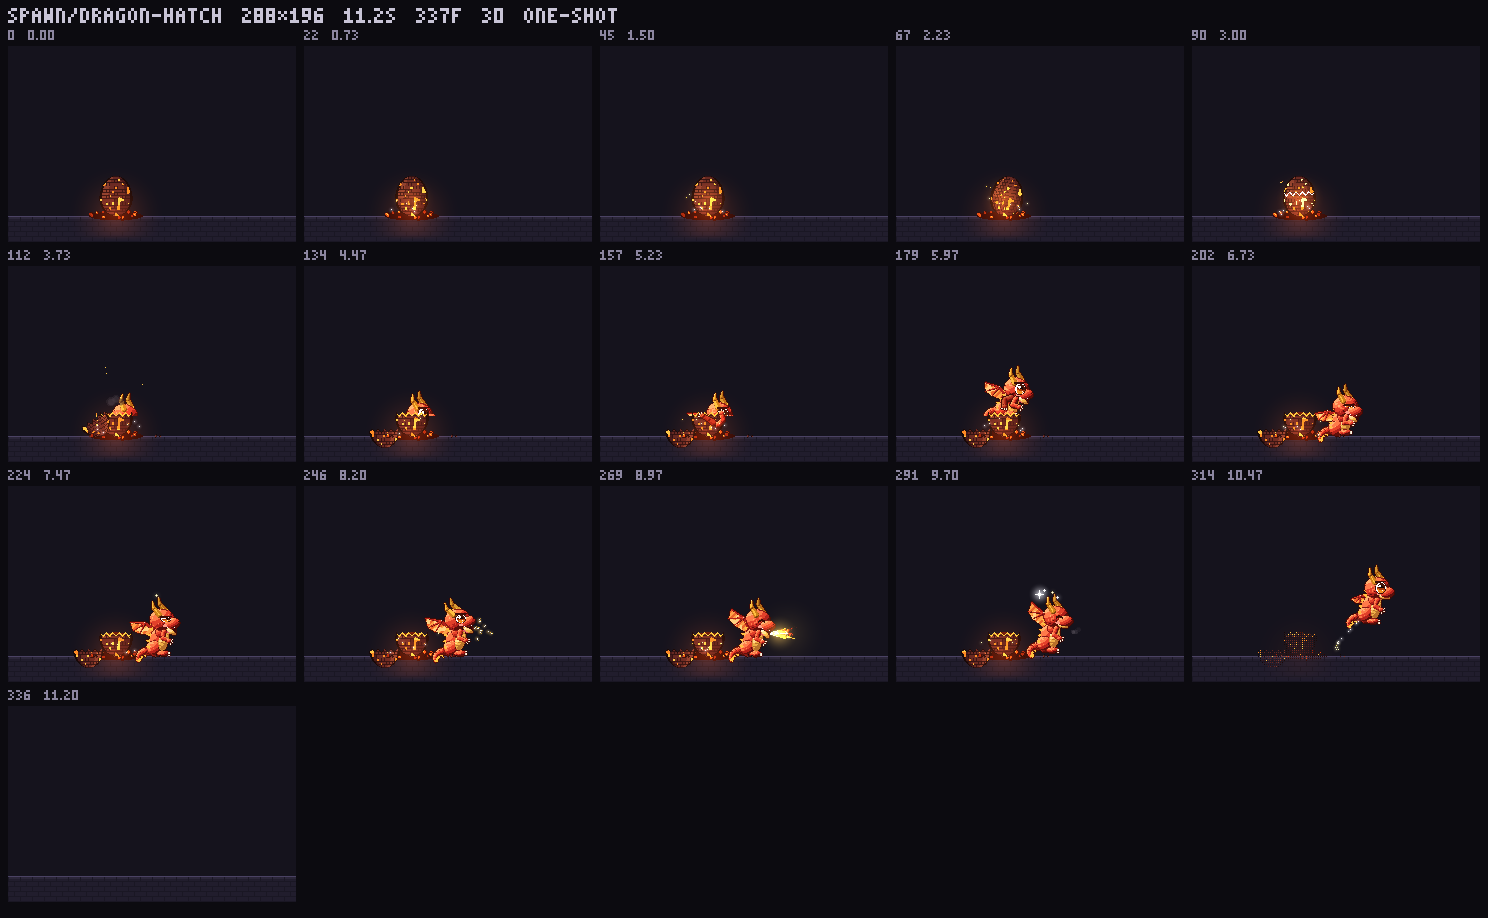
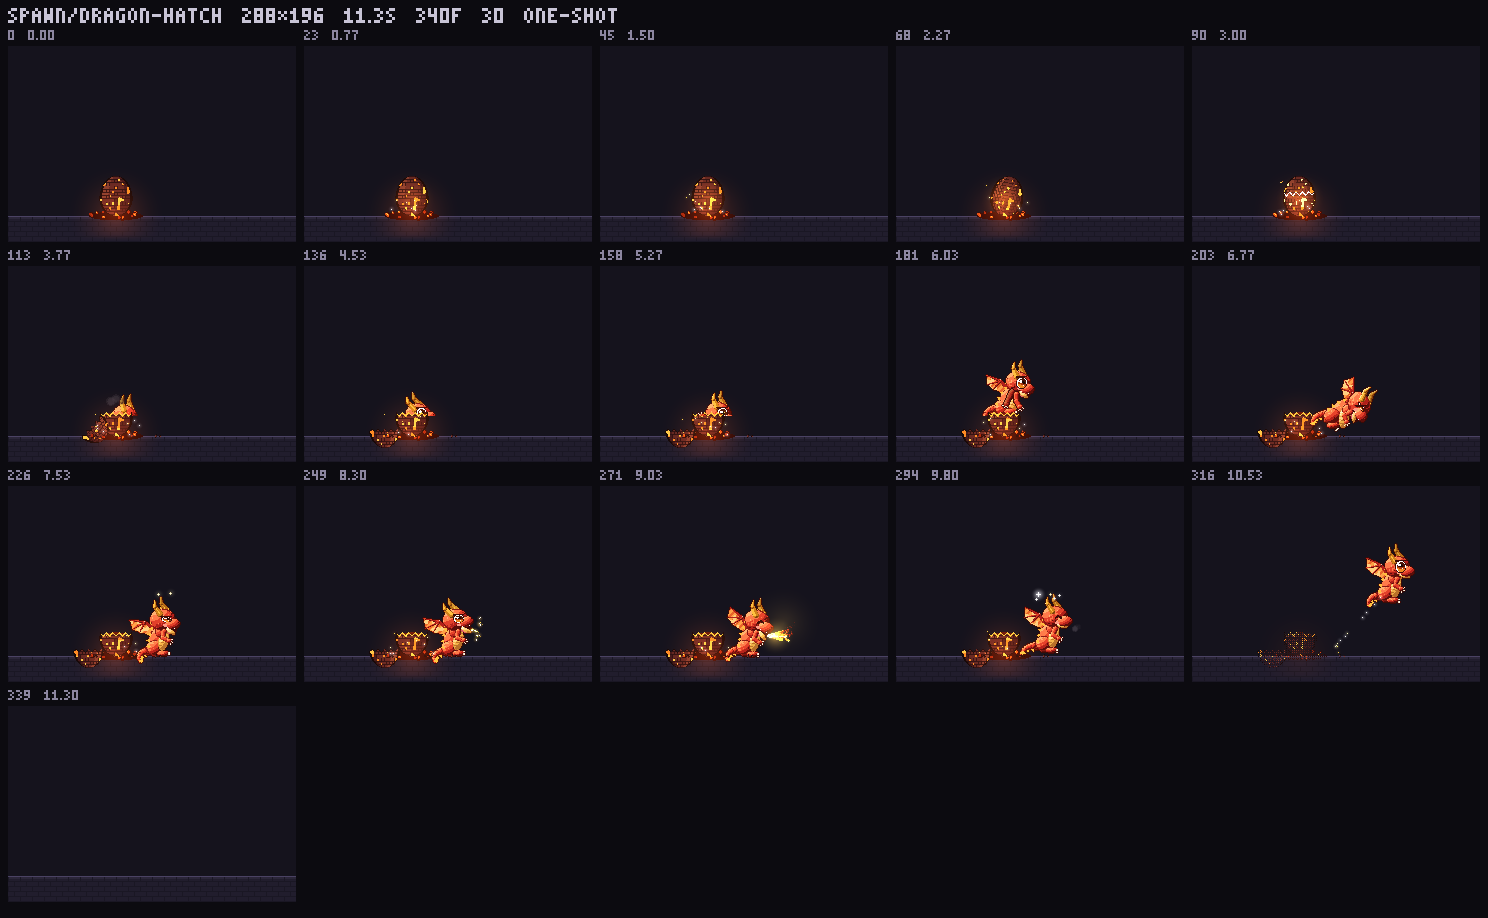
Dragon Hatch: natural, spring-driven motion
Keyframes become targets chased by springs, so parts ease, overshoot and
settle; the head lags the body, the tail and wing trail. Adds breathing,
idle drift, staggered hand grabs, a two-heave climb, balance before the
topple, and impulse-driven landing squash.

Claude-Session: https://claude.ai/code/session_019nHu2H4F1733UoiXJmkwmw

diff --git a/effects/spawn/dragon-hatch.js b/effects/spawn/dragon-hatch.js
@@ -10,7 +10,7 @@ import { Doll, drawDragon } from "./_dragon-rig.js";
 // shaded parts posed by keyframes every frame, so it moves smoothly.
 const ROCKS = [[0.5, 0.25, 0.35], [1.1, 0.35, 0.5], [1.55, 0.45, 0.6], [1.95, 0.5, 0.95]]; // [time, length, strength]
 const CRACK1 = 2.35, CRACK2 = 2.75, POP = 3.2;
-const GRIP = 5.1, OUT = 6.05, TOPPLE = 6.35, LAND = 6.75, INHALE = 8.05, BREATH = 8.55, BREATH_END = 9.15, COUGH = 9.28, JOY = 9.45, FLY = 10.1, D = 11.2;
+const GRIP = 5.0, OUT = 6.1, TOPPLE = 6.45, LAND = 6.85, INHALE = 8.1, BREATH = 8.62, BREATH_END = 9.2, COUGH = 9.33, JOY = 9.5, FLY = 10.15, D = 11.3;
 const EH = 40, ERX = 16, RIM = -22;
 const GRIP_N = [14, -23], GRIP_F = [-11, -23.5];
 
@@ -31,52 +31,68 @@ export const meta = {
   },
 };
 
-// the dragon's pose through the hatching: [time, the values that change]; everything eases between keys
+// where the dragon is headed through the hatching: [time, the values that change]. These are targets: springs
+// in create() chase them, so every part speeds up, overshoots a touch and settles, and the head lags the body.
 const KEYS = [
   [3.25, { x: -2, y: 34, tilt: 0.25, head: 0.45, eye: 0, look: 0, jaw: 0, puff: 0, squash: 1, wing: 0, tail: 0, lift: 0, gN: 0, gF: 0 }],
-  [3.65, { y: 13, head: 0.2 }],
-  [3.95, { head: 0, eye: 0 }],
-  [4.15, { eye: 1 }],
-  [4.3, { look: -1, head: -0.12 }],
-  [4.55, { look: 1, head: 0.1 }],
-  [4.68, { look: 0, eye: 1, head: 0 }],
-  [4.72, { eye: 0.05 }],
-  [4.8, { eye: 1 }],
-  [4.85, { gN: 0, gF: 0, tilt: 0.1 }],
-  [GRIP, { gN: 1, gF: 1, y: 10, tilt: 0.2 }],
-  [5.6, { y: -6, tilt: 0.3, head: 0.15 }],
-  [5.85, { y: -15, tilt: 0.38, lift: 1 }],
-  [OUT, { y: -23, x: 2, tilt: 0.15, lift: 0, gN: 0.5, gF: 0.5, head: 0 }],
-  [6.2, { gN: 0, gF: 0, x: 3, tilt: 0.05, wing: 0.55 }],
-  [TOPPLE, { x: 5, y: -23.5, tilt: 0.5, eye: 1, wing: 0.75 }],
-  [6.55, { x: 22, y: -30, tilt: 0.95, eye: 0.05, wing: 1 }],
-  [LAND, { x: 42, y: 0, tilt: 0, squash: 0.72, wing: 0.35 }],
-  [6.9, { squash: 1.08 }],
-  [7.02, { squash: 1, eye: 0.45, head: 0.2, wing: 0.5 }],
-  [7.5, { eye: 0.45, head: 0 }],
-  [7.58, { eye: 1, look: 0 }],
-  [7.7, { eye: 1 }],
-  [7.74, { eye: 0.05 }],
+  [3.7, { y: 14, head: 0.28 }],
+  [3.95, { head: 0.05, tilt: 0.1 }],
+  [4.12, { eye: 0 }],
+  [4.2, { eye: 1 }],
+  // the eyes look first, the head follows
+  [4.35, { look: -1 }],
+  [4.45, { head: -0.15 }],
+  [4.62, { look: 1 }],
+  [4.72, { head: 0.12 }],
+  [4.85, { look: 0, head: 0 }],
+  [4.9, { eye: 1 }],
+  [4.93, { eye: 0.05 }],
+  [4.99, { eye: 1 }],
+  // one hand grabs the rim, then the other
+  [GRIP, { gF: 0, gN: 0, tilt: 0.1 }],
+  [5.12, { gF: 1, tilt: 0.16 }],
+  [5.16, { gN: 0 }],
+  [5.3, { gN: 1, y: 13, tilt: 0.2 }],
+  // a first heave, a slip back, then a big second heave and a foot over
+  [5.45, { y: 2, tilt: 0.32, head: 0.22 }],
+  [5.53, { y: 5 }],
+  [5.62, { y: 4, head: 0.1 }],
+  [5.8, { y: -12, tilt: 0.38, lift: 1 }],
+  [5.95, { y: -20, tilt: 0.3, lift: 1 }],
+  [OUT, { y: -23, x: 2, tilt: 0.1, lift: 0, gN: 0.4, gF: 0.4, head: 0, wing: 0.55 }],
+  // it lets go, leans back to catch its balance, then tips forward and off
+  [6.22, { gN: 0, gF: 0, x: 3 }],
+  [6.32, { tilt: -0.12, head: -0.1 }],
+  [TOPPLE, { x: 5, y: -23.5, tilt: 0.3, eye: 1, wing: 0.75 }],
+  [6.55, { eye: 0.05 }],
+  [6.65, { tilt: 1, wing: 1, head: 0.2 }],
+  [LAND, { x: 42, y: 0, tilt: 0, wing: 0.35, head: 0 }],
+  [7.0, { eye: 0.45, head: 0.15, wing: 0.5 }],
+  [7.55, { eye: 0.45, head: 0 }],
+  [7.65, { eye: 1, look: 0 }],
   [7.8, { eye: 1 }],
-  [7.92, { eye: 1 }],
-  [7.96, { eye: 0.05 }],
-  [8.02, { eye: 1 }],
+  [7.83, { eye: 0.05 }],
+  [7.89, { eye: 1 }],
+  [8.0, { eye: 1 }],
+  [8.03, { eye: 0.05 }],
+  [8.09, { eye: 1 }],
+  // a big breath in, rearing back; then the fire, pushed back a little by it
   [INHALE, { tilt: 0, head: 0, puff: 0 }],
-  [8.5, { tilt: -0.16, head: -0.35, puff: 1 }],
-  [BREATH, { tilt: 0.08, head: 0.12, puff: 0, jaw: 1 }],
-  [9.1, { jaw: 1 }],
-  [9.2, { jaw: 0, head: 0.1 }],
-  [9.3, { jaw: 0.55, head: 0.25 }],
-  [9.4, { jaw: 0, head: 0, eye: -1 }],
+  [8.58, { tilt: -0.22, head: -0.38, puff: 1, x: 41 }],
+  [BREATH, { tilt: 0.12, head: 0.14, puff: 0, jaw: 1 }],
+  [9.15, { jaw: 1, x: 40 }],
+  [9.25, { jaw: 0, head: 0.08 }],
+  [COUGH, { jaw: 0.55, head: 0.3 }],
+  [9.45, { jaw: 0, head: 0, eye: -1, x: 42 }],
   [FLY, { eye: -1, y: 0 }],
-  [10.3, { eye: 1, y: -8, x: 44, tilt: 0.15, wing: 1 }],
+  [10.35, { eye: 1, y: -8, x: 44, tilt: 0.15, wing: 1 }],
   [D - 0.15, { x: 240, y: -210 }],
 ];
 const PARAMS = Object.keys(KEYS[0][1]);
+// the targets at t: straight lines between keys (the springs do the easing), eyes and blinks as they are
 function pose(t) {
   const out = {};
   for (const k of PARAMS) {
-    // the last key at or before t with this value, and the next one after it
     let a = null, b = null;
     for (const [kt, v] of KEYS) {
       if (!(k in v)) continue;
@@ -85,27 +101,18 @@ function pose(t) {
     }
     if (!a) out[k] = b[1];
     else if (!b) out[k] = a[1];
-    else {
-      const u = (t - a[0]) / (b[0] - a[0]), e = k === "eye" ? u : u * u * (3 - 2 * u);
-      out[k] = a[1] + (b[1] - a[1]) * e;
-    }
+    else out[k] = a[1] + (b[1] - a[1]) * ((t - a[0]) / (b[0] - a[0]));
   }
-  // the fall: a real arc, not an ease
+  // the fall: a real arc
   if (t > TOPPLE && t < LAND) {
     const u = (t - TOPPLE) / (LAND - TOPPLE);
     out.x = 5 + 37 * u;
     out.y = -23.5 + 23.5 * u * u - 12 * Math.sin(Math.PI * u) * (1 - u);
   }
-  // shaking its dizzy head, wagging and flapping when it's happy, flapping hard as it flies
-  if (t > 7.02 && t < 7.55) out.head += Math.sin((t - 7.02) * 30) * 0.22 * (1 - (t - 7.02) / 0.53);
-  if (t > JOY && t < FLY) {
-    out.wing = 0.5 + 0.5 * Math.sin(t * 26);
-    out.tail = Math.sin(t * 14) * 0.5;
-    out.y = -Math.abs(Math.sin((t - JOY) * Math.PI * 2.4)) * 4;
-  }
-  if (t >= FLY) out.wing = 0.5 + 0.5 * Math.sin(t * 40);
   return out;
 }
+// each sprung value: [stiffness, damping]. Lower damping overshoots more; the head and tail are loosest
+const SPRING = { x: [150, 17], y: [170, 16], tilt: [170, 14], headW: [105, 9], wing: [80, 8], tail: [45, 4.5], squash: [320, 10], gN: [170, 16], gF: [170, 16], look: [320, 26], puff: [90, 11], jaw: [420, 32], lift: [220, 19] };
 
 // the egg's half width at height v (0 at the base, -EH at the top): rounder below, a narrower top
 const halfW = (v) => {
@@ -144,12 +151,46 @@ export function create(o) {
     return inScale ? SH[Math.max(1, Math.min(4, Math.round(2.4 + lit * 1.6)))] : SH[1];
   };
   // the dragon's pose with its hands reaching for the rim, and where its mouth is in the world
+  const sp = {}, vel = {};
+  // move every sprung value towards its target; falls and flight follow their paths exactly
+  const step = (h) => {
+    const g = pose(t), tg = { ...g, headW: g.tilt + g.head };
+    const free = (t > TOPPLE && t < LAND) || t >= FLY;
+    for (const k in SPRING) {
+      if (!(k in sp)) (sp[k] = tg[k]), (vel[k] = 0);
+      if (free && (k === "x" || k === "y")) {
+        vel[k] = (tg[k] - sp[k]) / Math.max(h, 1e-4);
+        sp[k] = tg[k];
+        continue;
+      }
+      const [K, C] = SPRING[k];
+      vel[k] += ((tg[k] - sp[k]) * K - vel[k] * C) * h;
+      sp[k] += vel[k] * h;
+    }
+  };
+  const kick = (k, v) => (vel[k] = (vel[k] ?? 0) + v);
   const dragon = () => {
-    if (t < 3.25) return null;
-    const q = pose(t), X = q.x, Y = q.y, toRel = (g) => [g[0] - X, g[1] - Y];
-    const rest = null;
-    q.handN = q.gN > 0.01 ? lerp2(restN(q), toRel(GRIP_N), q.gN) : rest;
-    q.handF = q.gF > 0.01 ? lerp2(restF(q), toRel(GRIP_F), q.gF) : rest;
+    if (t < 3.25 || !("x" in sp)) return null;
+    const g = pose(t), q = { ...g };
+    for (const k in SPRING) if (k !== "headW") q[k] = sp[k];
+    q.head = sp.headW - sp.tilt;
+    // alive even when still: breathing, the head bobbing a beat behind it, the tail and wing drifting
+    const out = t > OUT, br = 0.5 + 0.5 * Math.sin(t * 2.8);
+    if (out && !(t > INHALE && t < BREATH_END)) q.puff += 0.25 * br;
+    q.head += 0.03 * Math.sin(t * 2.8 - 0.7);
+    q.tail += 0.2 * Math.sin(t * 2.1);
+    if (out) q.wing += 0.05 * Math.sin(t * 2.8 + 1);
+    // a dizzy head shake, a happy wag and hop, a hard flutter as it flies
+    if (t > 7.0 && t < 7.6) q.head += Math.sin((t - 7.0) * 26) * 0.2 * (1 - (t - 7.0) / 0.6);
+    if (t > JOY && t < FLY) {
+      q.wing = 0.5 + 0.5 * Math.sin(t * 24);
+      q.tail += Math.sin(t * 13) * 0.45;
+      q.y -= Math.abs(Math.sin((t - JOY) * Math.PI * 2.2)) * 4;
+    }
+    if (t >= FLY) q.wing = 0.5 + 0.5 * Math.sin(t * 40);
+    const X = q.x, Y = q.y, toRel = (p) => [p[0] - X, p[1] - Y];
+    q.handN = q.gN > 0.01 ? lerp2(restN(q), toRel(GRIP_N), Math.min(1, q.gN)) : null;
+    q.handF = q.gF > 0.01 ? lerp2(restF(q), toRel(GRIP_F), Math.min(1, q.gF)) : null;
     return q;
   };
   const lerp2 = (a, b, k) => [a[0] + (b[0] - a[0]) * k, a[1] + (b[1] - a[1]) * k];
@@ -158,8 +199,19 @@ export function create(o) {
 
   return {
     update(dt) {
-      t += dt;
+      // the springs, in small steps so they behave the same at any frame rate
+      if (t + dt >= 3.25) {
+        const n = Math.max(1, Math.ceil(dt * 240)), h = dt / n;
+        for (let i = 0; i < n; i++) {
+          t += h;
+          if (t >= 3.25) step(h);
+        }
+      } else t += dt;
       const f = Math.min(1, dt * 120);
+      // a hand slapping onto the rim jolts the body; the landing squashes it and nods its head
+      if (once("gripF", 5.12)) kick("y", -25);
+      if (once("gripN", 5.3)) kick("y", -25);
+      if (once("thud", LAND)) (kick("squash", -9), kick("headW", 5), kick("tail", 6), kick("wing", 3));
       cur = dragon();
       if (t < D - 1.6 && R.chance(0.08 * f)) ps.spawn(P.EMBER, R.range(-22, 22), -R.range(0, 3), R.range(-6, 6), -R.range(18, 40), R.range(0.6, 1.1), 0, 1);
       for (const [t0] of ROCKS) if (once("rock" + t0, t0)) for (let i = 0; i < 4; i++) ps.spawn(P.SPARK, R.range(-11, 11), -R.range(5, 30), R.range(-60, 60), -R.range(40, 100), R.range(0.15, 0.3));

diff --git a/README.md b/README.md
@@ -204,7 +204,7 @@ For hojicha, try a brown `palette`; for a black iron pot, a grey `clay`.
 
 ![Dragon Hatch](renders/dragon-hatch/anim.gif)
 
-A fire dragon egg hatching. One-shot, 11.2 s, 30 fps, 288 x 196 px, ends empty.
+A fire dragon egg hatching. One-shot, 11.3 s, 30 fps, 288 x 196 px, ends empty.
 
 The baby dragon is an original chibi design: it sits upright with a big round head, huge glossy amber eyes
 with two shines and a lash, two curved golden horns, a crest of little spikes down its head and back, a cream
@@ -213,15 +213,22 @@ chunky haunches with pale claws, speckled red scales and a spiky tail curling ro
 is a separate shaded shape, posed by keyframes and drawn fresh every frame with a 1 px outline, so it moves
 smoothly, and its arms reach for targets by themselves, so its hands can hold the rim while its body moves.
 
+**Natural motion:** the keyframes are only targets. Every part is driven by a spring that chases them, so it
+speeds up, overshoots a little and settles; the head is sprung in world space, so it lags behind the body and
+catches up; the tail and wing are the loosest and trail behind. On top of that it breathes, its head bobs a
+beat behind the breath, its tail and wing drift, and it blinks. Each hand slapping onto the rim jolts the body,
+and the landing is an impulse that squashes it, nods its head and flicks its tail and wing.
+
 1. **The egg (0–2.3 s):** a dark scaled egg on a nest of breathing embers, lava seams pulsing in its shell.
    It rocks in four bursts, each harder than the last, throwing sparks.
 2. **Cracks (2.35 s, 2.75 s):** white-hot cracks race round it, light bursting through the seams.
 3. **Burst (3.2 s):** the top bursts off in a flare, sparks, smoke and chips, tumbles and lies on the nest.
 4. **Newborn (3.25–4.8 s):** its head rises out with its eyes shut; it opens them, looks left and right, blinks.
-5. **Climb (4.85–6.2 s):** both clawed hands reach up and **grip the broken rim**; it hauls itself up, elbows
-   bending, knocking crumbs off, gets a foot over and stands on the edge.
-6. **Fall (6.35–6.75 s):** it wobbles, topples off, tumbles through the air with its eyes squeezed shut and
-   wings out, and lands on its bottom with a squash and a puff of dust.
+5. **Climb (5.0–6.2 s):** one clawed hand reaches up and **grips the broken rim**, then the other; it heaves,
+   slips back a little, then hauls itself up with a second big effort, knocking crumbs off, gets a foot over,
+   stands on the edge and spreads its wing.
+6. **Fall (6.3–6.85 s):** it lets go, leans back to catch its balance, tips forward and topples off, tumbles
+   with its eyes squeezed shut and wing out, and lands on its bottom with a squash, a bounce and a puff of dust.
 7. **Dizzy, then blinks (6.9–8.0 s):** droopy-eyed, it shakes its head, sits up, and blinks twice.
 8. **Fire (8.05–9.15 s):** it leans back and breathes in, chest glowing, sparks drawn into its mouth, then
    opens its jaw (tongue and little fangs) and **puffs a little jet of fire**; then a cough of smoke.
